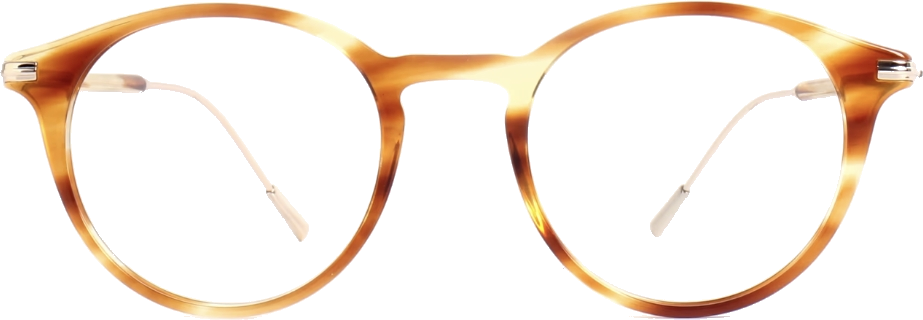
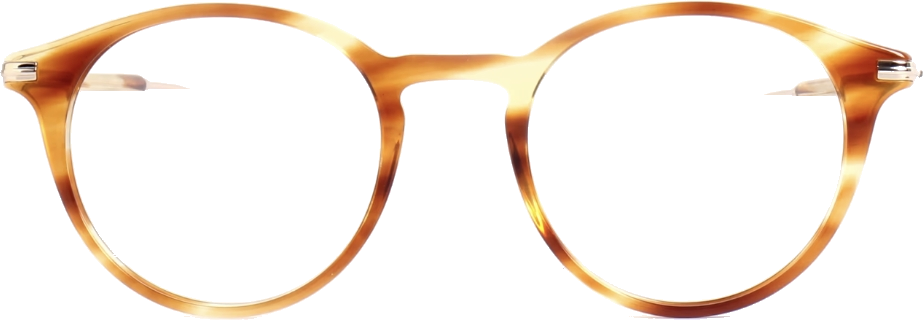
Corrige les quatre defauts du rendu, dont une occlusion destructrice
Reponse point par point aux defauts constates a tete tournee.

1. Branche 10 a 20 % trop longue
La longueur vient desormais du REGLET, comme la largeur de la face vient
du reglet et non de la photo. Une cote mesuree prime sur une cote
reconstruite. Le redressement par 1/sin(theta) ne sert plus qu'a la FORME.
L'ecart entre longueur reconstruite et longueur mesuree reste affiche : il
mesure ce que le modele plan ignore, le galbe et l'angle d'ouverture.

2. Fragment de tenon peint en l'air
La coupe a la charniere est une verticale, le tenon ne l'est pas : quelques
ilots de face debordaient dans la bande. On ne garde que la composante
connexe la plus grande. Au passage, la premiere version de ce filtre
reperait la composante par son centroide — lequel tombe hors de la forme
sur une branche galbee, si bien qu'elle gardait l'ilot et jetait la
branche. Corrige : on repere par numero de composante.

3. Branches repliees visibles a travers les verres
Elles sont dans la photo studio, donc dans le sprite, et se retrouvaient
peintes en travers de l'oeil du client. L'ouverture d'un verre etant
convexe par ligne, tout ce qui se trouve entre le premier et le dernier
pixel d'ouverture d'une rangee appartient a l'ouverture : on l'efface. Le
cerclage, lui, est toujours a l'exterieur de ce segment.

4. Occlusion inactive dans l'outil hors ligne
Elle l'est maintenant — et cela a revele le defaut suivant.

Le vrai bug : destination-out effacait tout ce qui etait dessous
[…]

diff --git a/src/render/temple.ts b/src/render/temple.ts
@@ -15,8 +15,32 @@ export interface ProfileSprite {
 }
 
 /**
- * Dessine la branche puis retire, par `destination-out`, la portion qui tombe
- * à l'intérieur du contour du visage.
+ * Calque hors écran réutilisé d'une frame à l'autre.
+ *
+ * ⚠ Il n'est pas là pour la performance, mais pour la CORRECTION.
+ * `destination-out` efface tout ce qui est déjà peint à l'endroit visé — pas
+ * seulement la branche. Appliqué directement sur le canvas principal, il
+ * découpait un trou dans tout ce qui se trouvait dessous.
+ *
+ * Dans l'application le canvas est transparent au-dessus d'un `<video>`, donc
+ * le trou ne se voyait pas ; sur un outil qui dessine une photo dans le même
+ * canvas, il perçait le visage en noir. L'occlusion doit donc rester confinée
+ * à son propre calque : c'est vrai partout, pas seulement là où ça se voit.
+ */
+let layer: HTMLCanvasElement | null = null;
+
+function layerFor(w: number, h: number): HTMLCanvasElement {
+  if (layer === null) layer = document.createElement('canvas');
+  if (layer.width !== w || layer.height !== h) {
+    layer.width = w;
+    layer.height = h;
+  }
+  return layer;
+}
+
+/**
+ * Dessine la branche sur un calque isolé, y retire la portion qui tombe à
+ * l'intérieur du contour du visage, puis compose le résultat.
  *
  * @param faceOutline contour de l'ovale facial en coordonnées écran. `null`
  *        désactive l'occlusion — la branche est alors dessinée telle quelle,
@@ -29,21 +53,30 @@ export function drawTemple(
   alpha: number,
   faceOutline: Path2D | null,
 ): void {
-  // La branche visible est celle du cote oppose au sens de rotation de la tete.
+  // La branche visible est celle du côté opposé au sens de rotation de la tête.
   const side: 1 | -1 = m.yawRad >= 0 ? -1 : 1;
   const t = templeAffine(profile.spec, m, side);
 
+  const off = layerFor(ctx.canvas.width, ctx.canvas.height);
+  const octx = off.getContext('2d');
+  if (octx === null) return;
+
+  octx.setTransform(1, 0, 0, 1, 0, 0);
+  octx.globalCompositeOperation = 'source-over';
+  octx.clearRect(0, 0, off.width, off.height);
+
+  octx.setTransform(t.a, t.b, t.c, t.d, t.e, t.f);
+  octx.drawImage(profile.img, 0, 0);
+
+  if (faceOutline !== null) {
+    octx.setTransform(1, 0, 0, 1, 0, 0); // le contour est déjà en coordonnées écran
+    octx.globalCompositeOperation = 'destination-out';
+    octx.fill(faceOutline);
+  }
+
   ctx.save();
+  ctx.setTransform(1, 0, 0, 1, 0, 0);
   ctx.globalAlpha = alpha;
-  ctx.setTransform(t.a, t.b, t.c, t.d, t.e, t.f);
-  ctx.drawImage(profile.img, 0, 0);
-  ctx.restore();
-
-  if (faceOutline === null) return;
-
-  ctx.save();
-  ctx.setTransform(1, 0, 0, 1, 0, 0); // le contour est déjà en coordonnées écran
-  ctx.globalCompositeOperation = 'destination-out';
-  ctx.fill(faceOutline);
+  ctx.drawImage(off, 0, 0);
   ctx.restore();
 }

diff --git a/src/render/composite.ts b/src/render/composite.ts
@@ -69,6 +69,20 @@ export function drawFrame(
   faceOutline: Path2D | null,
   options: DrawOptions = {},
 ): void {
+  // ⚠ ORDRE CRITIQUE : la branche D'ABORD, la face ensuite.
+  //
+  // L'occlusion de la branche se fait par `destination-out` sur le contour du
+  // visage. Or `destination-out` efface TOUT ce qui est deja peint a cet
+  // endroit : en dessinant la face avant, on l'effaçait avec la branche, et la
+  // monture disparaissait du milieu du visage des que la tete tournait.
+  //
+  // Dessiner la branche en premier est aussi le bon ordre physique : la branche
+  // passe derriere la tete, la face est devant.
+  const templeAlpha = smoothstep(TEMPLE_FADE_IN, TEMPLE_FADE_FULL, Math.abs(m.yawRad));
+  if (templeAlpha > 0.01) {
+    drawTemple(ctx, sprites.profile, m, templeAlpha, faceOutline);
+  }
+
   // ⚠ yawRad se lit sur `m` (T2). Ne PAS le repasser en paramètre : deux
   // sources pour la même grandeur finissent toujours par diverger.
   const t = spriteAffine(sprites.front.spec, m);
@@ -83,9 +97,4 @@ export function drawFrame(
   ctx.setTransform(t.a, t.b, t.c, t.d, t.e, t.f);
   ctx.drawImage(sprites.front.img, 0, 0); // toute la géométrie est dans l'affine
   ctx.restore();
-
-  const templeAlpha = smoothstep(TEMPLE_FADE_IN, TEMPLE_FADE_FULL, Math.abs(m.yawRad));
-  if (templeAlpha > 0.01) {
-    drawTemple(ctx, sprites.profile, m, templeAlpha, faceOutline);
-  }
 }

diff --git a/tests/render-proof.ts b/tests/render-proof.ts
@@ -118,9 +118,16 @@ export function runProof(): ProofCase[] {
   const ctx = canvas.getContext('2d', { willReadFrequently: true });
   if (ctx === null) throw new Error('canvas 2D indisponible');
 
+  // ⚠ Profil VIDE : ce banc mesure la FACE. Depuis que la branche est peinte
+  // avant elle, un profil non vide entrerait dans la bounding box mesuree et
+  // fausserait les controles de yaw — le banc l'a d'ailleurs signale.
+  const emptyProfile = document.createElement('canvas');
+  emptyProfile.width = 1;
+  emptyProfile.height = 1;
+
   const sprites = {
     front: { img: sprite, spec: SPEC },
-    profile: { img: sprite, spec: SPEC },
+    profile: { img: emptyProfile, spec: SPEC },
   };
 
   const paint = (lm: ReturnType<typeof makeFace>, yaw: number, paddingMm = 0): Painted => {

diff --git a/tests/photo-fit.html b/tests/photo-fit.html
@@ -12,6 +12,7 @@
       import { parseFrameSpec } from '/src/core/frameSpec.ts';
       import { drawFrame } from '/src/render/composite.ts';
       import { verdict, legend } from '/src/core/verdict.ts';
+      import { faceOutlinePath } from '/src/tracking/landmarker.ts';
 
       const load = (src) =>
         new Promise((ok, ko) => {
@@ -52,7 +53,7 @@
           ctx,
           { front: { img: front, spec }, profile: { img: profile, spec } },
           m,
-          null,
+          faceOutlinePath(det.landmarks, W, H),
           { overlayPaddingMm: paddingMm },
         );
 

diff --git a/tools/prepare_temple.py b/tools/prepare_temple.py
@@ -130,10 +130,25 @@ def main() -> int:
         f"(face {'a droite' if temple_on_left else 'a gauche'}, demi-face {half_front_px:.0f} px)"
     )
 
-    temple_solid = crop_solid[:, band]
+    temple_solid = crop_solid[:, band].copy()
     if temple_solid.sum() == 0:
         print("❌ aucune branche visible au-dela de la charniere.")
         return 1
+
+    # ⚠ La coupe a la charniere est une VERTICALE, or le tenon ne l'est pas :
+    # quelques ilots de face debordent dans la bande et se retrouvaient peints
+    # en l'air au-dessus de la branche. On ne garde que la composante connexe
+    # la plus grande — la branche elle-meme.
+    labels, parts = label_holes(temple_solid)
+    if len(parts) > 1:
+        # ⚠ On repere la composante par son NUMERO, pas par son centroide : sur
+        # une branche galbee le centroide tombe hors de la forme, et le filtre
+        # gardait alors l'ilot en jetant la branche.
+        best = max(range(len(parts)), key=lambda i: parts[i]["area"])
+        keep = labels == (best + 1)
+        drop = int(temple_solid.sum() - keep.sum())
+        temple_solid = temple_solid & keep
+        print(f"  {len(parts) - 1} ilot(s) de tenon ecarte(s) ({drop} px)")
 
     # ── Redressement : la branche est raccourcie en sin(theta) le long de sa
     #    longueur, et pas du tout en hauteur.
@@ -146,13 +161,20 @@ def main() -> int:
     rectified_mm = flat.width / scale
     ecart = (rectified_mm - args.branche) / args.branche
     print(
-        f"  branche : {src.width} px apparents → redressee {rectified_mm:.1f} mm "
-        f"pour {args.branche} mm annonces → {ecart * 100:+.1f} %"
+        f"  branche redressee {rectified_mm:.1f} mm pour {args.branche} mm au reglet "
+        f"→ ecart {ecart * 100:+.1f} % [CONTROLE]"
     )
-    print(
-        "  ⚠ cet ecart est un CONTROLE, pas un reglage : la longueur redressee "
-        "n'est ajustee sur rien."
-    )
+
+    # ── La longueur finale vient du REGLET, pas de la photo.
+    #
+    # Meme principe que la face, dont l'echelle vient de la largeur mesuree et
+    # non de l'image : une cote mesuree prime toujours sur une cote reconstruite.
+    # Le redressement sert a la FORME ; la cote fixe la longueur. L'ecart
+    # ci-dessus reste affiche comme controle — il mesure ce que le modele plan
+    # ignore : le galbe de la branche et son angle d'ouverture.
+    target_px = max(1, int(round(args.branche * scale)))
+    flat = flat.resize((target_px, flat.height), Image.LANCZOS)
+    print(f"  longueur calee sur le reglet : {flat.width / scale:.1f} mm")
 
     out_dir = Path(args.out) / args.slug
     out_dir.mkdir(parents=True, exist_ok=True)

diff --git a/tools/prepare_frame.py b/tools/prepare_frame.py
@@ -272,6 +272,26 @@ def main() -> int:
     alpha = np.where(crop_solid, 255, 0).astype(np.uint8)
     alpha[holes] = 0
 
+    # ⚠ Les BRANCHES REPLIEES se voient a travers les verres sur une photo
+    # studio : elles appartiennent a la photo, donc au sprite, et se
+    # retrouveraient peintes en travers de l'oeil du client.
+    #
+    # L'ouverture d'un verre est convexe par ligne (rond, panto, hexagone) : sur
+    # chaque rangee, tout ce qui se trouve ENTRE le premier et le dernier pixel
+    # d'ouverture est de l'ouverture — branche comprise. Le cerclage, lui, est
+    # toujours a l'exterieur de ce segment, donc jamais entoure.
+    effaces = 0
+    for box in (box_l, box_r):
+        for y in range(box["y0"], box["y1"] + 1):
+            row = np.where(holes[y, box["x0"] : box["x1"] + 1])[0]
+            if len(row) < 2:
+                continue
+            a0 = box["x0"] + row[0]
+            a1 = box["x0"] + row[-1]
+            effaces += int((alpha[y, a0 : a1 + 1] > 0).sum())
+            alpha[y, a0 : a1 + 1] = 0
+    print(f"  branches repliees effacees dans les verres : {effaces} px")
+
     out_dir = Path(args.out) / args.slug
     out_dir.mkdir(parents=True, exist_ok=True)
     Image.fromarray(np.dstack([crop_rgb, alpha])).save(out_dir / "front.png")

diff --git a/PROGRESS.md b/PROGRESS.md
@@ -177,9 +177,35 @@ l'inverse exact du réel. `core/transform.ts` expose désormais `templeAffine`,
 ancrée à la charnière et proportionnelle à `sin(yaw)`. Quatre tests le
 verrouillent, dont « longueur nulle de face » et « ancrage ≠ centre du pont ».
 
-Restent trois défauts visibles à tête tournée : longueur +10 %, un fragment de
-tenon parasite au-dessus de la branche, et l'occlusion derrière l'oreille non
-active dans l'outil hors-ligne.
+### Les quatre défauts du rendu, et leur correctif
+
+| Défaut | Cause | Correctif |
+|---|---|---|
+| Branche 10 à 20 % trop longue | le modèle plan ignore le galbe et l'angle d'ouverture | **la longueur vient du réglet**, comme la largeur de la face ; le redressement ne sert plus qu'à la forme, et l'écart reste affiché comme contrôle |
+| Fragment de tenon en l'air | la coupe à la charnière est une verticale, le tenon ne l'est pas | on ne garde que la **composante connexe** la plus grande |
+| Branches repliées visibles dans les verres | elles sont dans la photo studio, donc dans le sprite | l'ouverture d'un verre étant convexe par ligne, tout ce qui est **entre le premier et le dernier pixel d'ouverture** d'une rangée est effacé |
+| Occlusion inactive hors ligne | l'outil ne passait pas le contour du visage | il le passe — et cela a révélé le bug ci-dessous |
+
+### 🔴 `destination-out` perçait un trou dans tout ce qui était dessous
+
+L'occlusion s'appliquait **directement sur le canvas principal**. Or
+`destination-out` efface tout ce qui est déjà peint à cet endroit, pas
+seulement la branche.
+
+Dans l'application le canvas est transparent au-dessus d'un `<video>`, donc le
+trou tombait sur du vide et **ne se voyait pas**. Sur un outil qui dessine une
+photo dans le même canvas, il a percé le visage en noir d'un seul coup. Le
+défaut était là depuis le début, masqué par la configuration.
+
+Deux correctifs, tous deux nécessaires :
+1. l'occlusion se fait sur un **calque isolé**, composé ensuite — elle ne peut
+   plus atteindre quoi que ce soit d'autre ;
+2. la branche est dessinée **avant** la face, ce qui est aussi le bon ordre
+   physique : la branche passe derrière la tête, la face est devant.
+
+⚠ Le banc du §8.3 a immédiatement signalé ce changement d'ordre : ses deux
+contrôles de yaw mesuraient la bounding box peinte, branche comprise. Le banc
+utilise désormais un profil vide, puisqu'il mesure la face.
 
 ### Ce qui manque encore, précisément
 
